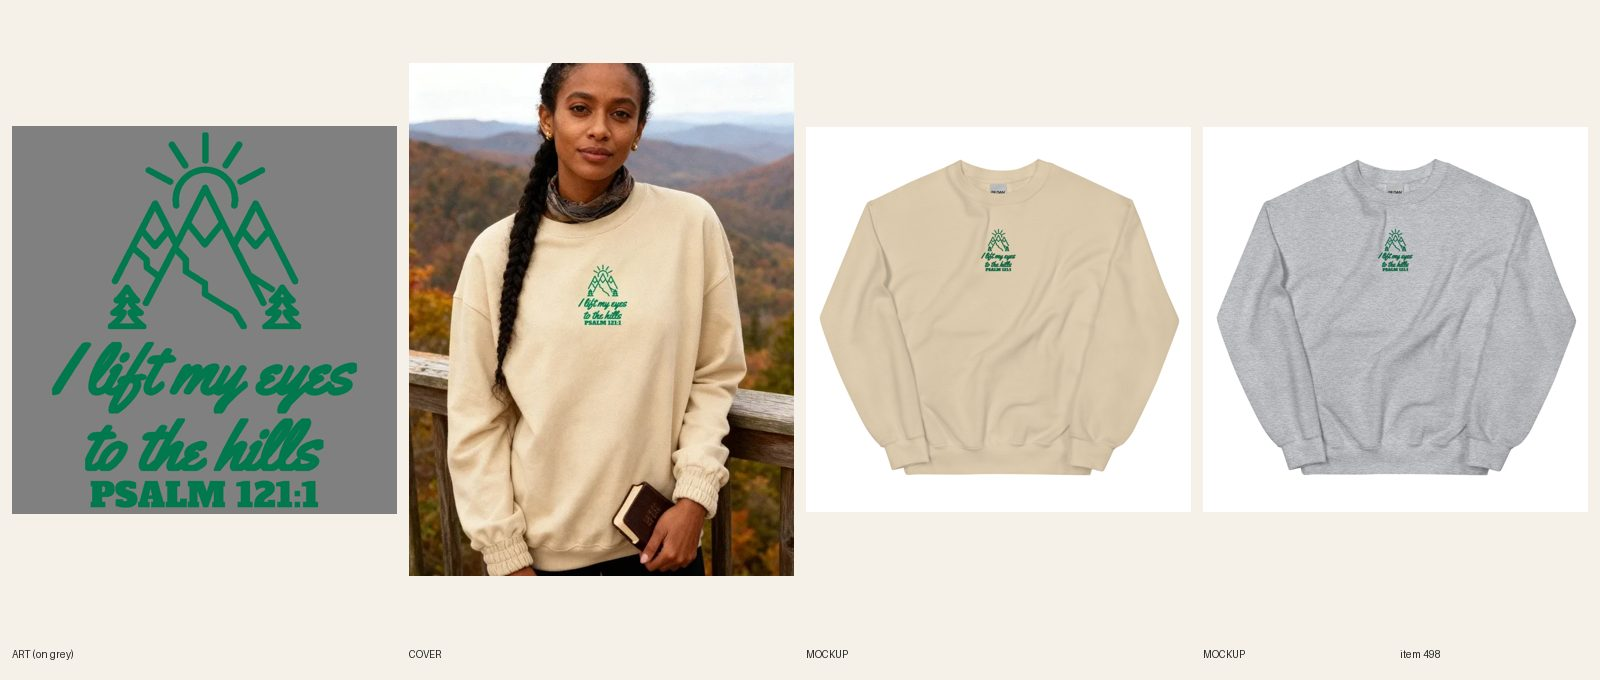
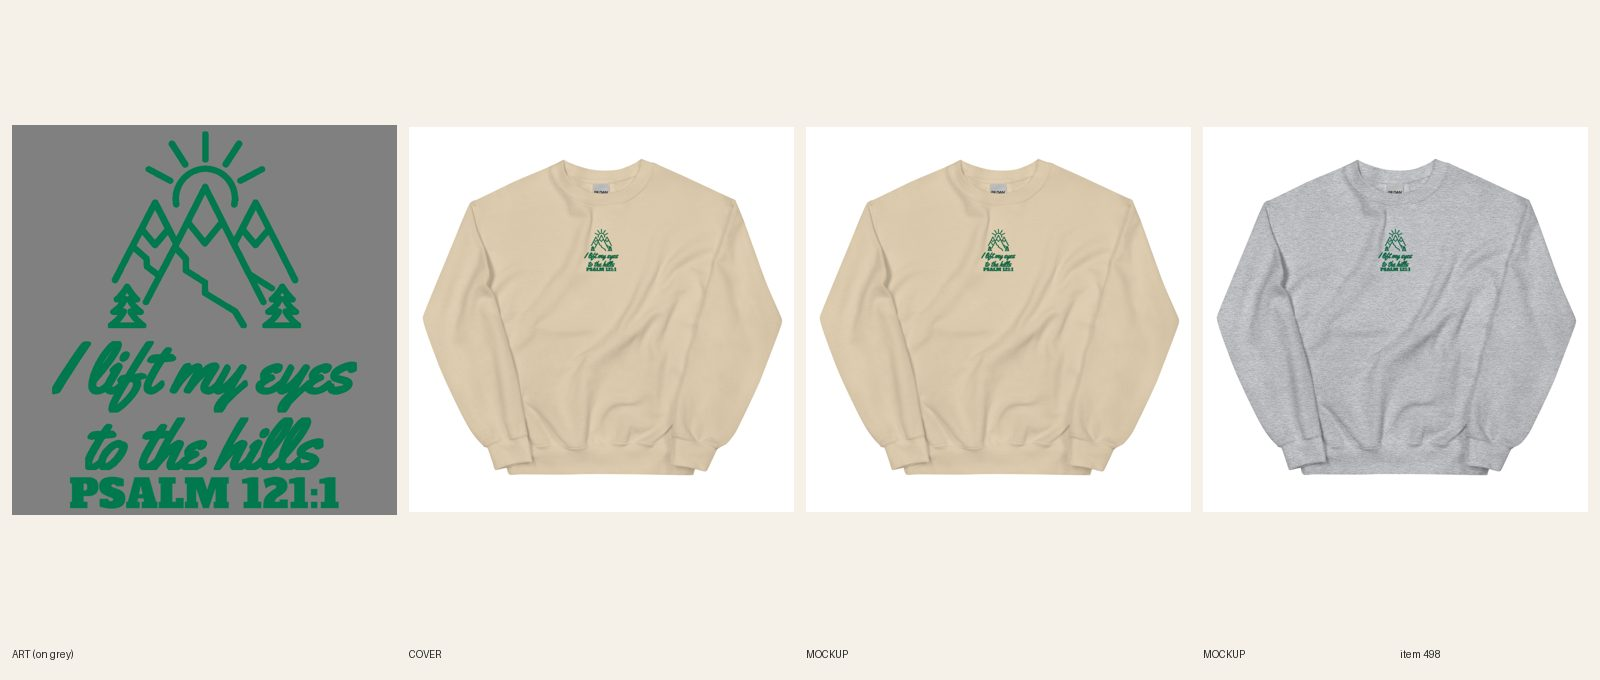
[B] review 498 Psalm 121 stitch redo (reference 0.33 in)

diff --git a/docs/pipeline/498-embroidered-crew-psalm-121-mountain.md b/docs/pipeline/498-embroidered-crew-psalm-121-mountain.md
@@ -1,4 +1,4 @@
-status: BUILDING [B] 2026-10-20 15:31 UTC
+status: REVIEW
 lane: B
 type: new
 id: 498
@@ -38,3 +38,4 @@ kd: 50
 - 2026-10-18 17:22 UTC director: QUALITY RESET grade C (new line + type), REDO. The product stays ACTIVE (same handle, URL, title keyword). 1. Line (R3.12, quality-reset 'Lines'): "I lift my eyes / to the hills / PSALM 121:1": Scripture, not a joke; fails the laugh test; script headline. Write 5 candidates, keep the one a stranger laughs at in 3 seconds without backstory; kill lines that only describe the picture; if none of the 5 is funny, PARK it. 2. Quality reset type bar (docs/backlog/quality-reset.md, 'The new bar'): headline at least 90% of the art width, heavy, colors pulled from the art; second line at least 45% of the headline's height, never a thin script on a dark or mid garment; use the lettering as a shape (arch, stacked lockup, words breaking into the art), not a plain bar above and a script line below; no font used on more than 1 in 6 of the last 30 designs. 3. Keep the art if it carries the new line, else one new illustration (R4/R5). New print means a new cover per R6.10, copy line one rewritten for the new joke (R8.3), and a fresh review sheet (R7.7). While quality-reset.md says PAUSED, only lane A builds, and only the samples step 2 names.
 - 2026-10-20 06:20 UTC builder [B]: released without building. R3.14 (Sam 2026-10-19): a sincere verse design is judged on lettering, art and accuracy only, not on a joke. The live stitch already has a heavy single-weight script verse (x-height about 0.3 in, caps 0.29 in), a clear three-peak mountain and an exact "PSALM 121:1"; the only open reasons in the REDO note (no laugh, script headline) are the ones R3.14 removes. Suggest the director re-grade #498 as A/B and clear the REDO; if a lettering change is still wanted, name it (e.g. a heavier verse font) and a builder will do it.
 - 2026-10-20 13:00 UTC director: RE-GRADE under R3.14 (Sam 2026-10-19): sincere verse design, so the joke and script-headline reasons in the 2026-10-18 note no longer apply; grade B (lettering only). One fix left: R4.8, PSALM 121:1 is logged at 0.29 in caps, under the 0.3 in floor; set the reference at 0.3 in caps or more (a heavier slab or serif for the reference line is fine; keep the script verse at its 0.3 in x-height), re-run emb-prep, log both numbers, new sheet. Nothing else changes.
+- 2026-10-20 15:36 UTC builder [B]: REDO 498 (director 13:00, R3.14 re-grade B, lettering only). Re-ran the stitch file with PSALM 121:1 set larger: the reference line is the same heavy Alfa Slab capitals scaled x1.18, caps 99 px = 0.33 in tall (was 84 px = 0.28 in), 2.36 in wide (709 px -> 837 px); the script verse is untouched (2 lines, x-height about 0.3 in as logged before). New file 3.17 x 3.92 in inside the 4 x 4 in limit (1200 x 1215 px canvas like the live one), one thread #01784E, p10 stroke unchanged. Printful file 1090456537, pf-emb-sync 12/12 verified on the API (every variant's embroidery_chest_center = 1090456537, back logo kept). Sand and Sport Grey front mockups replaced in place (no change to alts), back view unchanged. Sheet docs/review/498.jpg with the new stitch file in the ART panel. Nothing else changed. fal $0.

diff --git a/docs/intake-log.md b/docs/intake-log.md
@@ -1,6 +1,8 @@
 RUNNING lane E since 2026-10-20 15:29 UTC
 2026-10-20 15:36 UTC — [A] Builder run: #719 Frenchie Silent Night. Except the Snoring. tee, 48/48 synced. REVIEW. fal $0.
 RUNNING lane C since 2026-10-20 15:08 UTC
+2026-10-20 15:36 UTC — [B] Builder run: redid #498 Psalm 121 embroidered crewneck (PSALM 121:1 caps 0.33 in, was 0.28 in; stitch 3.17 x 3.92 in, 12/12 synced). REVIEW. fal $0.
+RUNNING director since 2026-10-20 15:21 UTC
 2026-10-20 15:28 UTC — [A] Builder run: #696 dance mom crewneck (twin of #534), 11/11 synced. REVIEW. fal $0.
 2026-10-20 15:27 UTC — [A] Builder run: #500 trees sheared 12 degrees, 12/12 synced. REVIEW. fal $0.
 2026-10-20 15:30 UTC — [B] Builder run: redid #531 Men's Gym pump cover (line + type: I'M NOT LAZY. / I'M DELOADING., same Greek-vase bench art, Anton, subject 66%, new front panel, 10/10 synced). REVIEW. fal $0.
